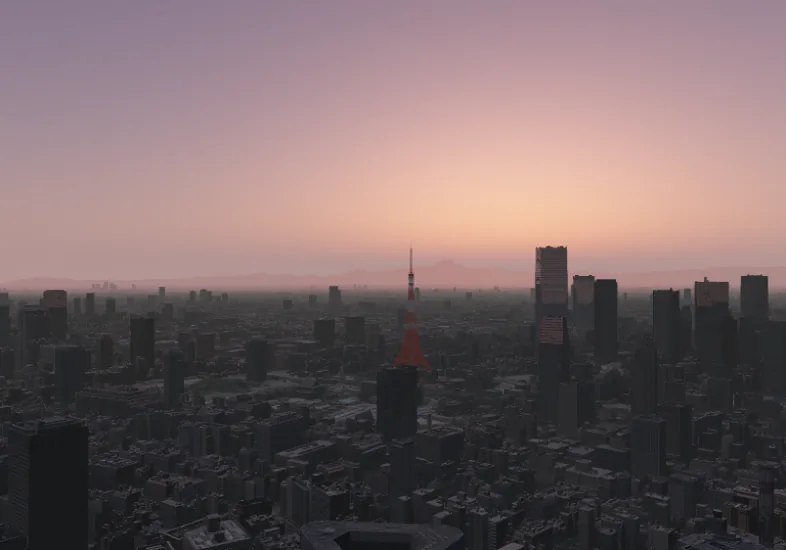
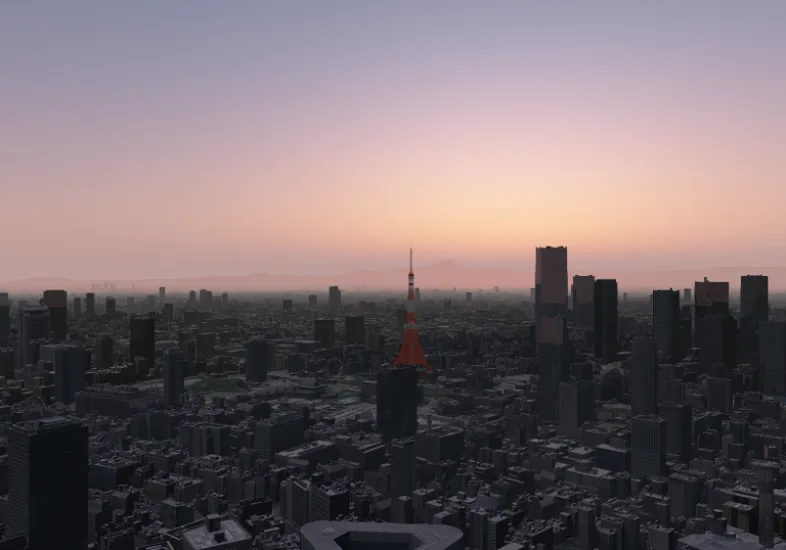
写真らしさ第 2 弾：日陰を締める近い霞、本物のブルーアワー、夜景の光、灰色の曇り空
本物の写真（麻布台からの東京）と明るさの分布を比べ、絵っぽさの原因を 1 つずつ直した（components/app/sky-canvas.tsx ほか）
- 近い霞：1〜3km の建物の日陰に乗る霞の明るさが日陰そのものの約 2 倍あり、全体が白っぽく平らだった。濁りの係数を
  2km 以内 5〜7%・20km より遠くは 100% に（明暗差 p90/p10 は 6→13、本物は 22。遠くの霞はそのまま）
- 薄明：大気の計算は物理的に正しいが、露出の上げ方が本物のスマートフォンより控えめすぎた（日没 30 分後で昼の 7 倍→30 倍）。
  単一散乱だけでは薄明の空が紫灰色になるので、輝度はそのままで高い所ほどブルーアワーの青へ寄せる（twilightTint。
  シェーダー・CSS の色・<head> の最初の計算で同じ式）。地平線の橙→上の青→夜と移る
- 明るさが一定の光（窓・街灯・車・東京タワー・夜空の街明かりの照り返し）は露出の比で強くなる：日没のころは目立たず、
  ブルーアワーに浮かび上がる（lib/app/city-light.ts の artificialLevel、lib/app/atmosphere.ts の nightExposureRatio）
- 夜景：夜空は灰色がかった紺〜地平線の茶灰色（紫にならない）。遠くの山は地平線の空より暗いシルエットに（街明かりが霞を
  照らすのは街の上だけ）。窓の明るさは大きくばらつき、遠くは点の海に。窓と街灯のまわりに光のにじみ。東京タワーの色は
  sRGB から線形に直して本物の濃い橙に
- ガラス：写真の質感のある建物は窓の型（格子の決め打ち）が質感の窓とずれてざらついていたので、用途ごとの一様なガラスの割合で映す
- 曇り・雨・雪：雲の底は灰色、厚い雲は地平線まで覆いすき間から青空が見えない。厚い雲は夕焼けを通さない（夜は街明かりで茶灰色）。
  曇りの日の遠くの霞は雲の底の色
- 代わりの絵（WebGL なし）を作り直し。テスト 778、PC の見た目は本番との差分 0px、機種 5 種と WebGL なしも確認

Claude-Session: https://claude.ai/code/session_01VXta14VyGyHnimiy8JAqdH

diff --git a/components/app/sky-canvas.tsx b/components/app/sky-canvas.tsx
@@ -15,10 +15,10 @@
 //  WebGL が使えない端末では何も描かず、下の CSS の層（同じ街を焼いた代わりの絵）が見える
 import * as SunCalc from "suncalc";
 import { useEffect, useRef, type CSSProperties } from "react";
-import { ATMOS, dirFromAltAz, exposureFor, sunTransmittance, sunTransmittanceAt } from "@/lib/app/atmosphere";
+import { ATMOS, dirFromAltAz, exposureFor, nightExposureRatio, sunTransmittance, sunTransmittanceAt } from "@/lib/app/atmosphere";
 import { airFrom, type Air } from "@/lib/app/air";
 import { snowlineM, treeSeason, visibilityKm, windowOccupancy } from "@/lib/app/city";
-import { artificialVisibility, cityAmbient, skyIrradianceSH, sunIrradiance } from "@/lib/app/city-light";
+import { artificialExposure, artificialLevel, artificialVisibility, cityAmbient, skyIrradianceSH, sunIrradiance } from "@/lib/app/city-light";
 import { CAM_LL, cloudDrift, currentSky, flashAt, parseTime, sunVisibility, type LiveSky } from "@/lib/app/satellite";
 import { BASE, HOME_CAMERA, overrideTime, smoothstep, solar, type Camera } from "@/lib/app/sun";
 import { towerLight } from "@/lib/app/tower";
@@ -61,7 +61,10 @@ uniform vec2 u_res;uniform vec3 u_f,u_r,u_u;uniform vec2 u_tan;uniform vec3 u_su
 ${ATMOS_GLSL}
 void main(){AERO=u_aero;vec2 uv=gl_FragCoord.xy/u_res;vec3 v=viewDir(uv,u_f,u_r,u_u,u_tan);
 float elev=degrees(asin(clamp(v.z,-1.0,1.0)));
-vec3 c=radiance(v,u_sun)*u_exposure+(nightZenith+nightHorizon*exp(-max(0.0,elev)/nightFall))*u_glow;
+/* 薄明の空の色の補正（lib/app/atmosphere.ts の twilightTint と同じ式）：輝度はそのままに、高い所ほどブルーアワーの青へ */
+vec3 c=radiance(v,u_sun)*u_exposure;float tw=${ATMOS.twilightStrength.toFixed(3)}*(1.0-smoothstep(-3.0,1.0,degrees(asin(clamp(u_sun.z,-1.0,1.0)))))*smoothstep(4.0,25.0,elev);
+c=mix(c,dot(c,vec3(0.2126,0.7152,0.0722))*vec3(${ATMOS.twilightBlue.join(",")}),tw);
+c+=(nightZenith+nightHorizon*exp(-max(0.0,elev)/nightFall))*u_glow;
 gl_FragColor=vec4(sqrt(clamp(c/4.0,0.0,1.0)),1.0);}`;
 
 /** 距離（2 バイト、対数）・種類の復元と、視線の向き */
@@ -149,14 +152,16 @@ float n0=0.6;float f=(u_cloud>0.0&&u_satOn<0.999)?noiseCloud(pL,n0):0.0;
 if(u_satOn>0.001){vec4 sL=satAt(pL);vec4 sH=satAt(pH);float a=cloudAt(pL,sL.r+u_cloudExtra,0.36,shL);float b=cloudAt(pH,sH.g,0.14,shH);
 bright=mix(0.75,max(sL.b,sH.b),u_satOn);dL=mix(f,a,u_satOn);dH=b*u_satOn;shL=mix(n0,shL,u_satOn);thick=mix(u_cloud,sL.r+u_cloudExtra,u_satOn);}
 else{dL=f;shL=n0;}
-dL*=smoothstep(0.004,0.06,v.z);dH*=smoothstep(0.004,0.025,v.z);}
+/* 厚い雲（ほぼ全天の曇り）は地平線まで覆う（地平線の近くだけ晴れの空が見えると不自然） */
+float ovc=smoothstep(0.75,0.95,max(u_cloud,thick));dL*=mix(smoothstep(0.004,0.06,v.z),1.0,ovc);dH*=smoothstep(0.004,0.025,v.z);}
 /* 地面の点 Pk（km）に落ちる雲の影（太陽の向きへたどって層に当たる所の雲の濃さ） */
 float cloudShadow(vec2 Pk,float Pz){if(u_sun.z<=0.0)return 1.0;float sh;float iz=1.0/max(u_sun.z,0.06);vec2 QL=Pk+u_sun.xy*((u_cloudH.x-Pz)*iz);
 float f=(u_cloud>0.0&&u_satOn<0.999)?noiseCloud(QL,sh):0.0;if(u_satOn<=0.001)return 1.0-0.9*f;
 vec2 QH=Pk+u_sun.xy*((u_cloudH.y-Pz)*iz);float a=cloudAt(QL,satAt(QL).r+u_cloudExtra,0.36,sh);float b=cloudAt(QH,satAt(QH).g,0.14,sh);
 return (1.0-0.9*mix(f,a,u_satOn))*(1.0-0.75*b*u_satOn);}
-/* 霞の濁りの係数（近いほど弱める。距離×係数が単調に増えるように）と、近い霞の色（青みを抜く） */
-float hazeK(float d){return 0.22+0.78*smoothstep(2000.0,30000.0,d);}
+/* 霞の濁りの係数（近いほど弱める。距離×係数が単調に増えるように）と、近い霞の色（青みを抜く）。
+   本物の写真（スマートフォン）は 1〜3km の建物の日陰もほぼ黒く締まる（霞の明るさは日陰の明るさより小さい）。2km 以内は 5〜7%、20km より遠くはそのまま */
+float hazeK(float d){return 0.05+0.95*smoothstep(1500.0,20000.0,d);}
 vec3 hazeAt(vec3 hz0,float d){return mix(vec3(dot(hz0,vec3(0.2126,0.7152,0.0722))),hz0,smoothstep(2500.0,20000.0,d));}
 /* 雨：細長い枠の中を落ちる筋 */
 float rain(vec2 uv,vec2 scale,float speed,float seed){vec2 q=vec2(uv.x*1.43+uv.y*0.1,uv.y)*scale;vec2 c=floor(q);vec2 f=fract(q);float h=hash21(c+seed);
@@ -172,14 +177,16 @@ vec3 v=viewDir(uv);
 vec3 sky=skyAt(uv);
 float skyLum=dot(sky,vec3(0.2126,0.7152,0.0722));
 /* 雲（低い層と高い層。高い雲は日没後もしばらく日が当たり、桃色に残る） */
-float dL,dH,shL,shH,bright,thick;clouds(v,dL,dH,shL,shH,bright,thick);float sunVis=u_sunVis;
+float dL,dH,shL,shH,bright,thick;clouds(v,dL,dH,shL,shH,bright,thick);dL=max(dL,smoothstep(0.85,0.97,thick));float sunVis=u_sunVis;
 vec3 zen=skyAt(vec2(0.5,0.96));
-vec3 amb=zen*0.8+vec3(0.06);
+/* 雲の底を照らす空の光：曇るほど青みが抜けて灰色（本物の曇り空は灰色一色） */
+float ovc0=smoothstep(0.5,0.95,u_cloud);vec3 zg=mix(zen,vec3(dot(zen,vec3(0.2126,0.7152,0.0722))),0.35+0.55*ovc0);vec3 amb=zg*0.8+vec3(0.06);
 vec3 litL=u_sunT*(1.05+0.25*u_day);vec3 litH=u_sunTH*(1.1+0.2*u_litH);
 /* 低い雲は下から見る：厚い雲ほど底が暗い（太陽が高いとき。低い太陽は横から当たって明るい） */
 vec3 dayColL=mix(amb,litL,(shL*0.75+0.1)*(1.0-0.55*u_cloud))*(0.7+0.4*bright)*(1.0-0.45*smoothstep(0.45,1.0,thick)*clamp(u_sun.z*2.0,0.0,1.0));
 vec3 dayColH=mix(amb*1.1,litH,shH*0.6+0.3)*(0.8+0.3*bright);
-vec3 nightCol=sky*0.55+vec3(0.075,0.052,0.036)*(0.7+0.5*(1.0-clamp(v.z*4.0,0.0,1.0)))+vec3(0.006,0.007,0.012);
+/* 夜・薄明の雲：薄い雲は後ろの空の色で光るが、厚い雲は夕焼けを通さず灰色（明るさは空に合わせる）。下から街明かりで茶灰色に */
+vec3 nightCol=mix(sky*0.55,vec3(dot(sky,vec3(0.2126,0.7152,0.0722)))*0.45,ovc0)+vec3(0.075,0.052,0.036)*(0.7+0.5*(1.0-clamp(v.z*4.0,0.0,1.0)))+vec3(0.006,0.007,0.012);
 vec3 cloudColL=mix(nightCol,dayColL,u_day);vec3 cloudColH=mix(nightCol*0.8,dayColH,u_litH);
 /* 太陽：本体とにじみ（雲でさえぎられる） */
 float th=acos(clamp(dot(v,u_sun),-1.0,1.0));
@@ -194,11 +201,13 @@ sky+=vec3(0.9,0.92,1.0)*0.09*exp(-tm/(0.04*u_haze))*vis;}
 if(u_stars>0.0){float az=atan(v.x,v.y);vec2 cell=vec2(az,asin(clamp(v.z,-1.0,1.0)))/0.0061;vec2 id=floor(cell);float h1=hash21(id);
 if(h1<0.0014){vec2 cen=id+0.5+vec2(hash21(id+1.3),hash21(id+7.1))*0.6-0.3;float dd=length(cell-cen);float b=pow(hash21(id+3.7),2.0)*0.85+0.15;
 sky+=vec3(0.85,0.9,1.0)*b*exp(-dd*dd*9.0)*u_stars*clamp(1.0-skyLum*6.0,0.0,1.0)*smoothstep(0.08,0.45,v.z);}}
-sky=mix(sky,cloudColH,dH*0.93);sky=mix(sky,cloudColL,dL*0.95);
+sky=mix(sky,cloudColH,dH*0.93);sky=mix(sky,cloudColL,dL*mix(0.95,1.0,smoothstep(0.8,0.97,thick)));
 /* 稲光：発雷域の向きの雲と空が一瞬明るくなる */
 if(u_flash>0.0){float ang=acos(clamp(dot(normalize(v.xy+vec2(1e-5,0.0)),u_flashDir),-1.0,1.0));float k=u_flash*exp(-ang*ang/0.22)*smoothstep(-0.02,0.08,v.z);sky+=vec3(0.85,0.88,1.0)*k*(0.25+1.2*max(dL,dH));}
 vec3 hz=skyAt(vec2(uv.x,1.0-u_horizon+0.03))*0.8;
-vec3 haze=mix(hz,vec3(dot(hz,vec3(0.3,0.5,0.2))),u_cloud*0.6)+u_amb*1.6;
+/* 夜の街明かりが霞を照らす分（u_amb）は街の上の空気だけ。街より遠くの山は地平線の空より暗いシルエット。
+   曇りの日の霞は雲の底の色（遠くの街は灰色の空に溶ける。晴れの地平線の白さは使わない） */
+vec3 hazeB=mix(mix(hz,vec3(dot(hz,vec3(0.3,0.5,0.2))),u_cloud*0.6),cloudColL*0.97,smoothstep(0.55,0.9,u_cloud));vec3 haze=hazeB+u_amb*1.6;
 vec3 outc=sky;float distKm=1e5;float twW=0.0;
 /* 街：焼き込んだ色・向き・距離を、今の光で照らす */
 vec4 al=texture2D(u_alb,iuv);float cov=al.a*u_city;
@@ -229,17 +238,20 @@ E=mix(E,vec3(dot(E,vec3(0.2126,0.7152,0.0722))),0.45);
 vec3 L=a*(u_sunE*pre.r*cs+E*ao*(0.45+0.45*ao))/3.14159265+a*u_amb*(0.35+0.65*ao);
 /* 濡れた屋根・道は空を映す（夜は街灯も） */
 L+=haze*0.10*u_wet*up*(1.0-u_snowCover);
-/* ガラス：窓は空を映す（斜めから見るほど強く＝フレネル。オフィスの熱線反射ガラスは正面でも 12% ほど映す）。太陽の映り込みはきらりと光る */
-if(typ<2.5){float glass=texture2D(u_win,iuv).r*(aux<1.5?1.0:0.7)*(1.0-u_snowCover);
+/* ガラス：窓は空を映す（斜めから見るほど強く＝フレネル。オフィスの熱線反射ガラスは正面でも 12% ほど映す）。太陽の映り込みはきらりと光る。
+   写真の質感のある建物（typ 1）は質感に窓が写っているので、窓の型（格子の決め打ち）ではなく用途ごとの一様なガラスの割合で映す（型がずれてざらつかない） */
+if(typ<2.5){float glass=(typ<1.5?(aux<1.5?0.32:(aux<2.5?0.22:(aux<3.5?0.18:0.1))):texture2D(u_win,iuv).r*(aux<1.5?1.0:0.7))*(1.0-u_snowCover);
 if(glass>0.01){float nv=max(dot(n,-v),0.0);float f0=aux<1.5?0.12:0.05;float F=f0+(1.0-f0)*pow(1.0-nv,5.0);vec3 rv=reflect(v,n);
 vec3 refl=rv.z>0.0?mix(hz*0.9,zen,smoothstep(0.0,0.5,rv.z)):L*0.8;
 float glint=pow(max(dot(rv,u_sun),0.0),180.0)*step(0.0,u_sun.z)*sunVis*min(pre.r*4.0,1.0);
 L+=glass*(F*refl+glint*u_sunE*0.12);}}
-/* 窓（用途で色が違う：オフィスは白、住宅は暖色が多い） */
+/* 窓（用途で色が違う：オフィスは白、住宅は暖色が多い）。明るさは窓ごとに大きく違う（明るい事務所の階は白く飛ぶ）。
+   遠くは 1 画素に窓がいくつも入るが、光は一様に広がらず点の集まり：画素ごとの明るさを裾の重い乱数で散らす（平均は同じ） */
 if(pre.g>0.0){vec3 w=texture2D(u_win,iuv).rgb;
 vec3 wc=aux<1.5?mix(vec3(0.86,0.92,1.0),vec3(1.0,0.9,0.74),step(0.6,fract(w.b*5.1))):(aux<2.5?vec3(1.0,0.84,0.62):(aux<3.5?vec3(1.0,0.76,0.5):(aux<4.5?mix(vec3(1.0,0.7,0.4),vec3(0.9,0.94,1.0),step(0.75,fract(w.g*7.3))):vec3(0.96,0.9,0.8))));
 float wk=aux<1.5?0.95:(aux<2.5?1.2:(aux<3.5?0.85:(aux<4.5?0.8:0.7)));
-L+=wc*pre.g*(0.3+0.8*fract(w.g*13.7))*wk*u_lightsVis;}
+float hx=-log(max(hash21(gl_FragCoord.xy+vec2(17.0,3.0)),0.002));float wv=fract(w.g*13.7);
+L+=wc*pre.g*(0.35+1.9*wv*wv)*wk*u_lightsVis*mix(1.0,hx*hx*0.5,smoothstep(1500.0,5000.0,dd));}
 /* 街灯と車（国道・都道・高速は車の光が流れる） */
 if(typ==3.0&&pre.b>0.0){vec3 sc=aux>1.5?vec3(1.0,0.74,0.45):vec3(0.86,0.92,1.0);L+=sc*pre.b*1.2*u_lightsVis*(1.0+0.8*u_wet);
 if(aux>1.5){float uu=e.b*255.0;float hh=hash21(floor(gl_FragCoord.xy*0.5));float dir=hh>0.5?1.0:-1.0;
@@ -248,7 +260,7 @@ float car=smoothstep(0.84,0.98,fract((uu+dir*u_time*13.0)/21.0+hh*7.0));L+=(dir>
    カメラ（スマートフォン）の処理と同じく、近い所は霞を弱めて明暗と色を残す（濁りの係数を近いほど下げる。30km より遠くはそのまま）。
    近い霞は空の青ではなく中立の色（地表近くの霞の粒は色を選ばずに散らす） */
 float T=exp(-dd*u_sigma*hazeK(dd));
-L=L*T+hazeAt(haze,dd)*(1.0-T);
+L=L*T+(hazeAt(hazeB,dd)+u_amb*1.6*(1.0-smoothstep(12000.0,40000.0,dd)))*(1.0-T);
 outc=mix(sky,L,cov);}
 /* 東京タワー：塔だけを高い倍率で焼いた層（色と透け具合・面の向きの割合・照明の属性）を街の上に重ねる。透けた格子の向こうに街が見える */
 if(u_twOn>0.5){vec2 tq=(iuv-u_twRect.xy)/(u_twRect.zw-u_twRect.xy);
@@ -265,20 +277,25 @@ vec3 Pt=v*u_twDist;float cst=cloudShadow(Pt.xy/1000.0,Pt.z/1000.0);
 vec3 Lt=ab*(u_sunE*sunF*0.8*cst+Et*0.85)/3.14159265+ab*u_amb*0.5;
 /* 展望台のガラス：空を映す */
 float gf=te.b;if(gf>0.0){vec3 rv=reflect(v,normalize(u_twX*tn.x+u_twY*tn.y+vec3(0.0,0.0,0.001)));vec3 refl=rv.z>0.0?mix(hz*0.9,zen,smoothstep(0.0,0.5,rv.z)):Lt*0.8;Lt+=gf*0.14*refl;}
-/* 夜：ランドマークライト（夏は白・冬はオレンジ）、ダイヤモンドヴェール、展望台の窓、毎正時の純白の煌めき（大展望台とトップデッキの上部） */
+/* 夜：ランドマークライト（夏は白・冬はオレンジ）、ダイヤモンドヴェール、展望台の窓、毎正時の純白の煌めき（大展望台とトップデッキの上部）。
+   色は画面の色（sRGB）で決めてあるので線形に直す（直さないと橙が薄い桃色になる） */
 if(u_towerOn>0.0){float code2=floor(te.r*255.0+0.5);float part=floor(code2/32.0);float tier=code2-part*32.0;float tem=te.g;
-vec3 tc=u_towerCol;if(u_towerMode>1.5)tc*=0.55+0.45*sin(tier*0.85+u_time*0.6);
+vec3 tc=pow(u_towerCol,vec3(2.2));if(u_towerMode>1.5)tc*=0.55+0.45*sin(tier*0.85+u_time*0.6);
 tc=mix(tc,vec3(1.0),u_towerWhite);
 float k=part<0.5?1.0:(part<2.5?0.0:(part<3.5?0.55:(part<4.5?0.0:0.9)));
-Lt+=tc*tem*k*2.8;
-Lt+=vec3(1.0,0.95,0.86)*1.7*u_decks*gf;
-if(u_sparkle>0.0&&part>4.5)Lt+=vec3(1.0)*step(0.78,hash21(floor(gl_FragCoord.xy*0.7)+floor(u_time*9.0)))*3.0;}
+Lt+=tc*tem*k*2.8*u_towerOn;
+Lt+=vec3(1.0,0.95,0.86)*1.7*u_decks*gf*u_towerOn;
+if(u_sparkle>0.0&&part>4.5)Lt+=vec3(1.0)*step(0.78,hash21(floor(gl_FragCoord.xy*0.7)+floor(u_time*9.0)))*3.0*u_towerOn;}
 float Tt=exp(-u_twDist*u_sigma*hazeK(u_twDist));Lt=Lt*Tt+hazeAt(haze,u_twDist)*(1.0-Tt);
 outc=mix(outc,Lt,ta.a);distKm=mix(distKm,u_twDist/1000.0,ta.a);twW=ta.a;}}}
 /* 雨の幕：レーダーの雨の下を通る視線の分だけ灰色に溶ける（遠くの雨柱、近くの雨。雨の強さで見通しが決まる） */
 if(u_rainOn>0.5){float tmax=cov>0.002?min(distKm,80.0):(v.z>0.001?min((u_cloudH.x-H0)/v.z,80.0):80.0);float od=0.0;float dt=tmax/8.0;
 for(int i=0;i<8;i++){float t=(float(i)+0.5)*dt;float z=H0+v.z*t;if(z>u_cloudH.x||z<-0.3)continue;float mm=rainAt(v.xy*t);if(mm>0.2)od+=0.2*pow(mm,0.63)*dt;}
 outc=mix(outc,haze*0.78,1.0-exp(-od));}
+/* 夜の光のにじみ（レンズと空気）：周りの窓と街灯の明かりを 2 つの輪で拾って足す */
+if(u_lightsVis>0.0){vec3 gs=vec3(0.0);for(int i=0;i<8;i++){float an=float(i)*0.785398+0.39;vec2 o=vec2(cos(an),sin(an))/u_res;
+vec4 p1=texture2D(u_pre,uv+o*2.5);vec4 p2=texture2D(u_pre,uv+o*6.0);gs+=vec3(0.95,0.9,0.8)*(p1.g*0.6+p2.g*0.3)+vec3(1.0,0.75,0.45)*(p1.b*0.6+p2.b*0.3);}
+outc+=gs/8.0*0.12*u_lightsVis;}
 vec3 col=tone(outc*u_expAdj);
 /* 街と塔：カメラの色の処理（彩度を少し上げ、中間の明るさの差を広げる）。空は CSS の色とそろえるため変えない。昼ほど強く */
 float cw=max(cov,twW)*(0.35+0.65*u_day);
@@ -530,7 +547,9 @@ function cityLightValues(at: Date, sun: [number, number, number], altitude: numb
     sh,
     sunE: sunIrradiance(sun, altitude, air.aero),
     amb: cityAmbient(altitude),
-    lightsVis: artificialVisibility(altitude),
+    lightsVis: artificialLevel(altitude),
+    /** タワーの明かりの露出の比（点灯は日没から。日没のころは目立たない） */
+    artExp: artificialExposure(altitude),
     occ,
     sigma: 3.912 / (vis * 1000),
     season: [season.blossom, season.fresh, season.autumn, season.bare] as [number, number, number, number],
@@ -619,7 +638,7 @@ function draw(g: Gl, cam: Camera, at: Date, city: boolean, seconds: number, stil
   setCam(g.sky, g.skyT.w, g.skyT.h);
   gl.uniform1f(g.sky.loc.u_exposure, exposureFor(s.altitude));
   gl.uniform1f(g.sky.loc.u_aero, air.aero);
-  gl.uniform1f(g.sky.loc.u_glow, air.glow);
+  gl.uniform1f(g.sky.loc.u_glow, air.glow * nightExposureRatio(s.altitude));
   gl.drawArrays(gl.TRIANGLES, 0, 3);
   // 街の下ごしらえ（分・天気が変わったときだけ）
   if (showCity && lv) {
@@ -713,7 +732,7 @@ function draw(g: Gl, cam: Camera, at: Date, city: boolean, seconds: number, stil
     gl.uniform1f(m.u_snowCover, lv.snowCover);
     gl.uniform1f(m.u_wet, lv.wet);
     const t = lv.tower;
-    gl.uniform1f(m.u_towerOn, t.on ? 1 : 0);
+    gl.uniform1f(m.u_towerOn, t.on ? lv.artExp : 0);
     gl.uniform1f(m.u_towerMode, t.mode);
     gl.uniform1f(m.u_towerWhite, t.white);
     gl.uniform3f(m.u_towerCol, t.color[0], t.color[1], t.color[2]);

diff --git a/lib/app/atmosphere.ts b/lib/app/atmosphere.ts
@@ -30,13 +30,16 @@ export const ATMOS = {
   sun: 20,
   /**
    * 露出（カメラの自動露出・目の順応に相当）。太陽の高度ごとの節で、間は対数で補間する。
-   * 昼は空が飛ばないように低く、薄明・夜は暗い空が見えるように高く
+   * 昼は空が飛ばないように低く、薄明・夜は暗い空が見えるように高く。薄明の空の明るさは昼の千分の一ほどまで下がるが、
+   * スマートフォンは露出を大きく上げて写す（日没 30 分後のブルーアワーの空が青く明るく写る）ので、-6° で昼の約 30 倍
    */
   exposureKnots: [
     [10, 1.1],
-    [0, 2.4],
-    [-6, 8],
-    [-12, 24],
+    [0, 2.6],
+    [-3, 7],
+    [-6, 30],
+    [-9, 70],
+    [-12, 90],
   ] as [number, number][],
   /**
    * 何度も散らばった光（単一散乱では足りない分）の近似：見る方向の空気が厚いほど、空の平均の色で薄く光る。
@@ -53,9 +56,17 @@ export const ATMOS = {
   /** 太陽と月の見かけの半径（度）。月は小さすぎて点になるので少し大きく描く */
   sunRadius: 0.27,
   moonRadius: 0.26 * 3.0,
-  /** 夜の空の地（空気の微かな光と街の明かりの照り返し。露出をかけた後の線形の明るさ） */
-  nightZenith: [0.012, 0.018, 0.045] as Vec3,
-  nightHorizon: [0.095, 0.052, 0.028] as Vec3,
+  /**
+   * 薄明の空の色の補正（twilightTint）：寄せる青（輝度 1 の線形 RGB）と、いちばん高い所での強さ。
+   * 単一散乱だけでは薄明の空が紫がかった灰色になる（実際はオゾンの吸収と何度も散らばった光で青い）
+   */
+  twilightBlue: [0.72, 1.02, 1.63] as Vec3,
+  twilightStrength: 0.85,
+  /** 夜の空の地（空気の微かな光と街の明かりの照り返し。露出をかけた後の線形の明るさ）。
+   *  東京の夜空は街明かり（白い LED と橙の灯り）の照り返しで、上は灰色がかった紺、地平線の近くは茶色がかった灰色
+   *  （照り返しの光は緑も含む幅の広い色なので、紺と混ざっても紫にならない） */
+  nightZenith: [0.009, 0.012, 0.024] as Vec3,
+  nightHorizon: [0.088, 0.066, 0.044] as Vec3,
   nightHorizonFalloff: 6,
 } as const;
 
@@ -198,6 +209,32 @@ export function sunTransmittanceAt(h: number, s: Vec3, aero = 1): Vec3 {
   return d ? (d.map((x) => Math.exp(-x)) as Vec3) : [0, 0, 0];
 }
 
+/**
+ * 明るさが一定の光（街の明かり・その照り返しの夜空）の露出の比（夜＝太陽が -12° より下を 1）。
+ * カメラの露出は暗くなるほど上がるので、日没のころ（0.1）はまだ目立たず、薄明の終わり（-6° で 0.33）に向けて浮かび上がる。
+ * 薄明の空は街の照り返しに埋もれず青い（ブルーアワー）
+ */
+export function nightExposureRatio(sunAltitude: number): number {
+  return Math.min(1, exposureFor(sunAltitude) / ATMOS.exposureKnots[ATMOS.exposureKnots.length - 1][1]);
+}
+
+const smooth = (a: number, b: number, x: number) => {
+  const t = Math.min(1, Math.max(0, (x - a) / (b - a)));
+  return t * t * (3 - 2 * t);
+};
+
+/**
+ * 薄明（日没後・日の出前）の空の色の補正。明るさ（輝度）はそのままに、地平線から高い所ほどブルーアワーの青へ寄せる
+ * （太陽の側の地平線の近くの橙と、反対側の低い所の桃色は残す）。c は露出をかけた散乱光（線形）。
+ * シェーダー（components/app/sky-canvas.tsx の FRAG_SKY）と <head> の最初の計算（lib/app/sky-vars.ts）も同じ式
+ */
+export function twilightTint(c: Vec3, elevationDeg: number, sunAltitude: number): Vec3 {
+  const w = ATMOS.twilightStrength * (1 - smooth(-3, 1, sunAltitude)) * smooth(4, 25, elevationDeg);
+  if (w <= 0) return c;
+  const Y = 0.2126 * c[0] + 0.7152 * c[1] + 0.0722 * c[2];
+  return [0, 1, 2].map((j) => c[j] + (Y * ATMOS.twilightBlue[j] - c[j]) * w) as Vec3;
+}
+
 /** 夜の空の地（街の明かりの照り返しは地平線の近くで強い。霞が多いと明るい＝glow）。線形の放射輝度 */
 export function nightBase(elevationDeg: number, glow = 1): Vec3 {
   const f = Math.exp(-Math.max(0, elevationDeg) / ATMOS.nightHorizonFalloff);
@@ -214,8 +251,9 @@ export function skyLinear(v: Vec3, s: Vec3, sunAltitude: number, air: AirParams 
   const L = radiance(v, s, air.aero);
   const e = exposureFor(sunAltitude);
   const elev = Math.asin(Math.max(-1, Math.min(1, v[2]))) / R;
-  const nb = nightBase(elev, air.glow);
-  return [L[0] * e + nb[0], L[1] * e + nb[1], L[2] * e + nb[2]];
+  const c = twilightTint([L[0] * e, L[1] * e, L[2] * e], elev, sunAltitude);
+  const nb = nightBase(elev, air.glow * nightExposureRatio(sunAltitude));
+  return [c[0] + nb[0], c[1] + nb[1], c[2] + nb[2]];
 }
 
 /** 空の色（太陽本体・月・星は含まない）。画面の 0〜255 */

diff --git a/lib/app/sky-vars.ts b/lib/app/sky-vars.ts
@@ -165,7 +165,7 @@ export function applySky(at: Date = overrideTime(location.hash) ?? new Date(), e
  * 太陽本体の位置はここでは入れない（表示のあとの applySky が入れる）
  */
 export const SKY_HEAD_SCRIPT = `(function(){try{
-var V=${JSON.stringify(SKY_VARS)},P=Math.PI/180,RHN=${JSON.stringify(RH_NORMAL)},AS=${JSON.stringify(AERO_SEASON)},AR=1,GL=1,A=${JSON.stringify({ Re: ATMOS.Re, Ra: ATMOS.Ra, h0: ATMOS.h0, bR: ATMOS.betaR, HR: ATMOS.HR, bM: ATMOS.betaM, HM: ATMOS.HM, bg: ATMOS.bgMie, g: ATMOS.g, mE: ATMOS.mieExt, bO: ATMOS.betaO, sun: ATMOS.sun, ek: ATMOS.exposureKnots, msC: ATMOS.msColor, msS: ATMOS.msStrength, msL: ATMOS.msLow, msH: ATMOS.msHigh, msW: ATMOS.msLowWeight, nZ: ATMOS.nightZenith, nH: ATMOS.nightHorizon, nF: ATMOS.nightHorizonFalloff, N: ATMOS.samples, NL: ATMOS.lightSamples })},CAM=${JSON.stringify(HOME_CAMERA)};
+var V=${JSON.stringify(SKY_VARS)},P=Math.PI/180,RHN=${JSON.stringify(RH_NORMAL)},AS=${JSON.stringify(AERO_SEASON)},AR=1,GL=1,A=${JSON.stringify({ Re: ATMOS.Re, Ra: ATMOS.Ra, h0: ATMOS.h0, bR: ATMOS.betaR, HR: ATMOS.HR, bM: ATMOS.betaM, HM: ATMOS.HM, bg: ATMOS.bgMie, g: ATMOS.g, mE: ATMOS.mieExt, bO: ATMOS.betaO, sun: ATMOS.sun, ek: ATMOS.exposureKnots, msC: ATMOS.msColor, msS: ATMOS.msStrength, msL: ATMOS.msLow, msH: ATMOS.msHigh, msW: ATMOS.msLowWeight, nZ: ATMOS.nightZenith, nH: ATMOS.nightHorizon, nF: ATMOS.nightHorizonFalloff, tb: ATMOS.twilightBlue, ts: ATMOS.twilightStrength, N: ATMOS.samples, NL: ATMOS.lightSamples })},CAM=${JSON.stringify(HOME_CAMERA)};
 function dt(a,b){return a[0]*b[0]+a[1]*b[1]+a[2]*b[2]}
 function hitF(o,d,r){var b=dt(o,d),c=dt(o,o)-r*r,q=b*b-c;return q<0?-1:-b+Math.sqrt(q)}
 function hitN(o,d,r){var b=dt(o,d),c=dt(o,o)-r*r,q=b*b-c;if(q<0)return -1;var t=-b-Math.sqrt(q);return t>0?t:-1}
@@ -179,7 +179,7 @@ var lo=d2s([0,0,A.Re+A.msL],s),hi=d2s([0,0,A.Re+A.msH],s);
 for(j=0;j<3;j++){var lit=A.msW*(lo?Math.exp(-lo[j]):0)+(1-A.msW)*(hi?Math.exp(-hi[j]):0),th=1-Math.exp(-A.bR[j]*tR-bm*A.mE*tM);out[j]=(out[j]+A.msS*A.msC[j]*th*lit)*A.sun}
 return out}
 function expo(a){var k=A.ek;if(a>=k[0][0])return k[0][1];for(var i=0;i<k.length-1;i++){if(a<=k[i][0]&&a>=k[i+1][0]){var t=(k[i][0]-a)/(k[i][0]-k[i+1][0]);return Math.exp(Math.log(k[i][1])*(1-t)+Math.log(k[i+1][1])*t)}}return k[k.length-1][1]}
-function skyc(v,s,alt,x){var L=rad(v,s),e=expo(alt),el=Math.asin(Math.max(-1,Math.min(1,v[2])))/P,f=Math.exp(-Math.max(0,el)/A.nF),o=[0,0,0];for(var j=0;j<3;j++)o[j]=Math.round(255*Math.pow(1-Math.exp(-Math.max(0,(L[j]*e+(A.nZ[j]+A.nH[j]*f)*GL)*x)),1/2.2));return o}
+function skyc(v,s,alt,x){var L=rad(v,s),e=expo(alt),el=Math.asin(Math.max(-1,Math.min(1,v[2])))/P,f=Math.exp(-Math.max(0,el)/A.nF),o=[0,0,0],g=GL*Math.min(1,e/A.ek[A.ek.length-1][1]),w=A.ts*(1-ss(-3,1,alt))*ss(4,25,el),c=[L[0]*e,L[1]*e,L[2]*e],Y=0.2126*c[0]+0.7152*c[1]+0.0722*c[2];for(var j=0;j<3;j++){c[j]+=(Y*A.tb[j]-c[j])*Math.max(0,w);o[j]=Math.round(255*Math.pow(1-Math.exp(-Math.max(0,(c[j]+(A.nZ[j]+A.nH[j]*f)*g)*x)),1/2.2))}return o}
 function meter(s,alt){if(alt<-6||dt(s,vdir(0,0))<0)return 1;var e=expo(alt),hy=1-2*CAM.horizon,sum=0,K=${METER.knee};for(var j=0;j<${METER.ny};j++){var sy=hy+(1-hy)*((j+0.5)/${METER.ny});for(var i=0;i<${METER.nx};i++){var L=rad(vdir(-1+2*((i+0.5)/${METER.nx}),sy),s),y=(0.2126*L[0]+0.7152*L[1]+0.0722*L[2])*e;sum+=K*(1-Math.exp(-y/K))}}var m=sum/${METER.nx * METER.ny};return Math.round(Math.min(1,Math.max(${METER.min},${METER.target}/Math.max(m,1e-6)))*1000)/1000}
 function vdir(sx,sy){var tH=Math.tan(CAM.hfov/2*P),tV=tH/CAM.aspect,pi=Math.atan((2*CAM.horizon-1)*tV),y0=CAM.bearing*P,f=[Math.sin(y0)*Math.cos(pi),Math.cos(y0)*Math.cos(pi),Math.sin(pi)],r=[Math.cos(y0),-Math.sin(y0),0],u=[-Math.sin(y0)*Math.sin(pi),-Math.cos(y0)*Math.sin(pi),Math.cos(pi)],d=[0,1,2].map(function(i){return f[i]+r[i]*sx*tH+u[i]*sy*tV}),n=Math.sqrt(dt(d,d));return[d[0]/n,d[1]/n,d[2]/n]}
 function sdir(alt,az){return[Math.cos(alt*P)*Math.sin(az*P),Math.cos(alt*P)*Math.cos(az*P),Math.sin(alt*P)]}

diff --git a/lib/app/city-light.ts b/lib/app/city-light.ts
@@ -1,7 +1,7 @@
 // ホームの街を照らす光（WebGL のシェーダーに渡す値）。空の色と同じ大気の式（lib/app/atmosphere.ts）から：
 //  太陽の直射（届く光の色 × 露出）と、空からの光（向きごとの強さを 1 次の球面調和で近似。夕方は西を向いた壁が橙に、昼は屋根が明るい）。
 //  曇りは空からの光を灰色の一様な光に寄せる（直射は雲の影でさえぎる）。夜は街明かりの照り返し（ほのかな橙）を足す
-import { ATMOS, CLEAN_AIR, exposureFor, nightBase, radiance, sunTransmittance, type AirParams, type Vec3 } from "./atmosphere";
+import { ATMOS, CLEAN_AIR, exposureFor, nightBase, nightExposureRatio, radiance, sunTransmittance, twilightTint, type AirParams, type Vec3 } from "./atmosphere";
 import { smoothstep } from "./sun";
 
 export type SH = [Vec3, Vec3, Vec3, Vec3];
@@ -28,14 +28,17 @@ const DIRS = sphere(64);
  */
 export function skyIrradianceSH(sun: Vec3, sunAltitude: number, cloud: number, air: AirParams = CLEAN_AIR): SH {
   const e = exposureFor(sunAltitude);
+  const glow = air.glow * nightExposureRatio(sunAltitude);
   const L: Vec3[] = [];
   let upSum: Vec3 = [0, 0, 0];
   let upN = 0;
   for (const d of DIRS) {
     if (d[2] > 0.02) {
       const r = radiance(d, sun, air.aero);
-      const nb = nightBase((Math.asin(d[2]) * 180) / Math.PI, air.glow);
-      const v: Vec3 = [r[0] * e + nb[0], r[1] * e + nb[1], r[2] * e + nb[2]];
+      const el = (Math.asin(d[2]) * 180) / Math.PI;
+      const t = twilightTint([r[0] * e, r[1] * e, r[2] * e], el, sunAltitude);
+      const nb = nightBase(el, glow);
+      const v: Vec3 = [t[0] + nb[0], t[1] + nb[1], t[2] + nb[2]];
       L.push(v);
       upSum = [upSum[0] + v[0] * d[2], upSum[1] + v[1] * d[2], upSum[2] + v[2] * d[2]];
       upN += d[2];
@@ -79,8 +82,14 @@ export function sunIrradiance(sun: Vec3, sunAltitude: number, aero = 1): Vec3 {
 /** 窓・街灯・タワーの明かりが見える度合い（日没前から、朝は日の出の後に消える） */
 export const artificialVisibility = (sunAltitude: number) => smoothstep(6, -4, sunAltitude);
 
+/** 人工の明かりの露出の比（夜を 1。lib/app/atmosphere.ts の nightExposureRatio と同じ） */
+export const artificialExposure = nightExposureRatio;
+
+/** 窓・街灯の明かりの強さ（点いている度合い × 露出の比） */
+export const artificialLevel = (sunAltitude: number) => artificialVisibility(sunAltitude) * artificialExposure(sunAltitude);
+
 /** 夜の街の照り返し（露出をかけた放射照度。建物の壁や地面をほのかに照らす橙） */
 export function cityAmbient(sunAltitude: number): Vec3 {
-  const k = artificialVisibility(sunAltitude);
+  const k = artificialLevel(sunAltitude);
   return [0.05 * k, 0.038 * k, 0.026 * k];
 }

diff --git a/lib/app/atmosphere.test.ts b/lib/app/atmosphere.test.ts
@@ -1,5 +1,5 @@
 import { describe, expect, it } from "vitest";
-import { dirFromAltAz, exposureFor, radiance, skyColor, sunTransmittance } from "./atmosphere";
+import { dirFromAltAz, exposureFor, nightExposureRatio, radiance, skyColor, skyLinear, sunTransmittance, twilightTint } from "./atmosphere";
 
 describe("大気の計算（空をコードで描く式）", () => {
   it("昼の空は上が青く、地平線は白っぽい", () => {
@@ -56,6 +56,26 @@ describe("大気の計算（空をコードで描く式）", () => {
       expect(e).toBeGreaterThanOrEqual(prev - 1e-9);
       prev = e;
     }
+  });
+  it("薄明の空は高い所ほど青い（輝度はそのまま）。昼と地平線の近くは変えない", () => {
+    const c: [number, number, number] = [0.06, 0.04, 0.05];
+    expect(twilightTint(c, 40, 10)).toEqual(c);
+    expect(twilightTint(c, 2, -5)).toEqual(c);
+    const t = twilightTint(c, 40, -5);
+    const Y = (v: number[]) => 0.2126 * v[0] + 0.7152 * v[1] + 0.0722 * v[2];
+    expect(Y(t)).toBeCloseTo(Y(c), 4);
+    expect(t[2]).toBeGreaterThan(t[0] * 1.5);
+    // 日没 20 分後（-4°）の西の空：地平線の近くは橙、上（20°）は青
+    const s = dirFromAltAz(-4, 250);
+    const low = skyLinear(dirFromAltAz(6, 248), s, -4);
+    const high = skyLinear(dirFromAltAz(22, 248), s, -4);
+    expect(low[0]).toBeGreaterThan(low[2]);
+    expect(high[2]).toBeGreaterThan(high[0]);
+  });
+  it("明るさが一定の光（街の明かり・夜空の照り返し）は、露出の比で夜に向けて強くなる", () => {
+    expect(nightExposureRatio(10)).toBeLessThan(0.02);
+    expect(nightExposureRatio(-6)).toBeGreaterThan(nightExposureRatio(-3));
+    expect(nightExposureRatio(-20)).toBe(1);
   });
   it("夜の空にも地（街の明かりの照り返し）があり、地平線の方が明るい", () => {
     const s = dirFromAltAz(-25, 300);

diff --git a/lib/app/city-light.test.ts b/lib/app/city-light.test.ts
@@ -1,6 +1,6 @@
 import { describe, expect, it } from "vitest";
 import { dirFromAltAz } from "./atmosphere";
-import { artificialVisibility, cityAmbient, irradiance, skyIrradianceSH, sunIrradiance } from "./city-light";
+import { artificialExposure, artificialLevel, artificialVisibility, cityAmbient, irradiance, skyIrradianceSH, sunIrradiance } from "./city-light";
 
 describe("街を照らす光（空の式から）", () => {
   it("昼は屋根（上向き）が壁より明るく、地面向きは暗い", () => {
@@ -29,5 +29,14 @@ describe("街を照らす光（空の式から）", () => {
     expect(sunIrradiance(dirFromAltAz(-20, 300), -20)).toEqual([0, 0, 0]);
     expect(cityAmbient(-20)[0]).toBeGreaterThan(0.04);
     expect(artificialVisibility(30)).toBe(0);
+  });
+  it("人工の明かりは露出の比で浮かび上がる（日没のころは目立たず、薄明の終わりから夜に向けて強く）", () => {
+    expect(artificialExposure(-20)).toBe(1);
+    expect(artificialExposure(0)).toBeLessThan(0.05);
+    expect(artificialExposure(-6)).toBeCloseTo(1 / 3, 2);
+    expect(artificialLevel(30)).toBe(0);
+    expect(artificialLevel(0)).toBeLessThan(0.1);
+    expect(artificialLevel(-6)).toBeGreaterThan(artificialLevel(-3));
+    expect(artificialLevel(-15)).toBe(1);
   });
 });

diff --git a/docs/features.md b/docs/features.md
@@ -317,8 +317,11 @@
     - 汐留から見たダイヤモンド富士（太陽が富士山頂に沈む）は 11 月 2〜3 日の 16:34 ごろと 2 月 8〜9 日の 17:04 ごろ。
     - 本物の雲・雨・雷（`lib/app/satellite.ts`）：気象庁のひまわり画像（日本域の z6 タイル 1 枚＝東京のまわり 500km、約 2km/画素。可視 B03 と赤外 B13、2.5 分ごと・公開は約 8 分遅れ。「今 − 8 分」から 2.5 分刻みでさかのぼって最初に読めたもの）から、低い雲（R）・高い雲（G）・明るさ（B）の場を作る。昼は可視の反射率で濃さ、赤外の温度で高さ。夜は赤外だけ（いちばん暖かい 1 割を地面として、それより冷たい所を雲）なので、低い雲は予報の雲量で補う。シェーダーは低い雲（1.4km）と高い雲（7.5km）の 2 つの層を地球の丸みに沿って置き、視線がそれぞれの層に当たる所の値を読んで、細かい模様で 2km の画素の中を埋める。高い雲は日没後もしばらく日が当たり桃色に残る（7.5km の高さに届く太陽の光の色で）。太陽の隠れ具合・雲の影も同じ場から（本物の雲の影が街に落ちる）。雲は地上の風の 2 倍で流れる。読めたときは 1.5 秒で切り替え、読めないときは雲量だけの模様。カメラのまわり約 25km の雲量を CSS の色と街の照明にも使う。
     - 雨の幕：高解像度降水ナウキャスト（5 分ごと。z8 タイル 2×2＝西〜南西 180km、約 0.6km/画素）の雨の強さ（mm/h）を、視線が雲の底（1.4km）より下を通る分だけ積分して灰色に溶かす（遠くの雨柱、近くの雨。減衰は 0.2×R^0.63/km）。手元の雨の筋の強さもレーダーのカメラ位置の値（mm/h ÷ 15）。雷ナウキャスト（10 分ごと）に発雷域があれば、その向きの雲と空が 22 秒に 1 回ほど 2 回ちらつく（遠いほど弱く、150km より遠くは出さない）。#w= で天気を固定しているときは衛星・レーダーを使わない。#sat=YYYYMMDDhhmmss（UTC）でひまわりの時刻を固定できる。
-    - カメラの処理（スマートフォンと同じ）：近い所は霞を弱める（空気の濁りの係数を、2km 以内は 22%、30km より遠くは 100% に。近い霞は空の青ではなく中立の色）。街と塔は彩度を少し上げ、中間の明るさの差を広げる（空は CSS の色とそろえるため変えない）。暗い所に動かない細かい粒。
-    - 写真らしさ：空からの光は建物どうしの照り返しで青みが薄まる（空の光の彩度を 45% 落とし、地面の照り返しは暖かい灰色 0.16）。建物の間（空の見え方が小さい所）は暗い。窓は空を映す（フレネル。オフィスの熱線反射ガラスは正面でも 12%、斜めから見るほど鏡に近づく。太陽の映り込みはきらりと光る）。東京タワーは格子なので、面の向きによらず昼は日が当たる（高さ地図では自分の影にしない。部材は遠目の密度に合わせて少し太め）。東京の夜空は明るいので星は明るいものだけ（帯に十数個、地平線の近くは見えない）。焼き込んだ色は縮小で柔らかくなった分を少し研ぐ（カメラの輪郭強調と同じ程度）。
+    - カメラの処理（スマートフォンと同じ）：近い所は霞を弱める（空気の濁りの係数を、2km 以内は 5〜7%、20km より遠くは 100% に。本物の写真は 1〜3km の建物の日陰もほぼ黒く締まる。近い霞は空の青ではなく中立の色）。街と塔は彩度を少し上げ、中間の明るさの差を広げる（空は CSS の色とそろえるため変えない）。暗い所に動かない細かい粒。
+    - 露出と薄明：露出の節は本物のスマートフォンに合わせ、薄明で大きく上げる（太陽 10° で 1.1、0° で 2.6、-6° で 30、-12° で 90）。単一散乱だけでは薄明の空が紫がかった灰色になるので、輝度はそのままに高い所ほどブルーアワーの青へ寄せる（`twilightTint`。太陽の側の地平線の橙は残す。シェーダー・CSS の色・<head> の最初の計算で同じ式）。明るさが一定の光（窓・街灯・車・東京タワー・夜空の街明かりの照り返し）は露出の比（夜を 1、日没で約 0.03、-6° で 0.33）で強くなる：日没のころは目立たず、ブルーアワーに浮かび上がる。
+    - 夜景：夜空は灰色がかった紺、地平線の近くは茶色がかった灰色（紫にならない）。街明かりが霞を照らす分は街の上の空気だけで、遠くの山は地平線の空より暗いシルエット。窓の明るさは窓ごとに大きく違い（明るい事務所の階は白く飛ぶ）、遠くの窓は画素ごとの明るさを裾の重い乱数で散らして点の海に（平均は同じ）。窓と街灯のまわりに光のにじみ。東京タワーの色は画面の色（sRGB）から線形に直す（橙が薄い桃色にならない）。
+    - 曇り・雨・雪：雲の底を照らす空の光は曇るほど青みが抜けて灰色、厚い雲は地平線まで覆い、すき間から晴れの空が見えない。厚い雲は夕焼けを通さない（明るさだけ空に合わせた灰色、夜は街明かりで茶灰色）。曇りの日の遠くの霞は雲の底の色。
+    - 写真らしさ：空からの光は建物どうしの照り返しで青みが薄まる（空の光の彩度を 45% 落とし、地面の照り返しは暖かい灰色 0.16）。建物の間（空の見え方が小さい所）は暗い。窓は空を映す（フレネル。オフィスの熱線反射ガラスは正面でも 12%、斜めから見るほど鏡に近づく。太陽の映り込みはきらりと光る。写真の質感のある建物は質感に窓が写っているので、窓の型ではなく用途ごとの一様なガラスの割合で映す）。東京タワーは格子なので、面の向きによらず昼は日が当たる（高さ地図では自分の影にしない。部材は遠目の密度に合わせて少し太め）。東京の夜空は明るいので星は明るいものだけ（帯に十数個、地平線の近くは見えない）。焼き込んだ色は縮小で柔らかくなった分を少し研ぐ（カメラの輪郭強調と同じ程度）。
     - 湿度（`lib/app/air.ts`）：霞の粒は湿度が高いと水を吸ってふくらみ光をよく散らす。気象庁の湿度と季節（冬は大陸の澄んだ空気、夏はもや・光化学スモッグ）から霞の量 aero を決め、大気の式のミー散乱（地表近くの層。上空の薄い霞は湿度によらず、日没後の西の赤みのもと）、太陽と月のにじみの広がり、遠くの霞（見通し＝コシュミーダーの式。同じ係数）、星の見え方、夜の空の明るさ（街の明かりが霞で散る）に使う。見通しは乾いた冬の 30% で約 105km（富士山がくっきり）、10 月の 50% で約 29km、夏の 65% で約 12km、88% で約 6km。CSS の色と <head> の最初の計算も同じ（湿度は端末に覚えた観測から。#…&h=30 で固定できる）。
     - 出典は「その他」の「データの出典と時点」に「街並み（ホームの帯）」として表示（PLATEAU・地理院タイルを加工して作成）。
     - 保留：季節の写真、実機での色の調整、ログイン・会社での共有（記録の形は共有できるように作ってある）。
